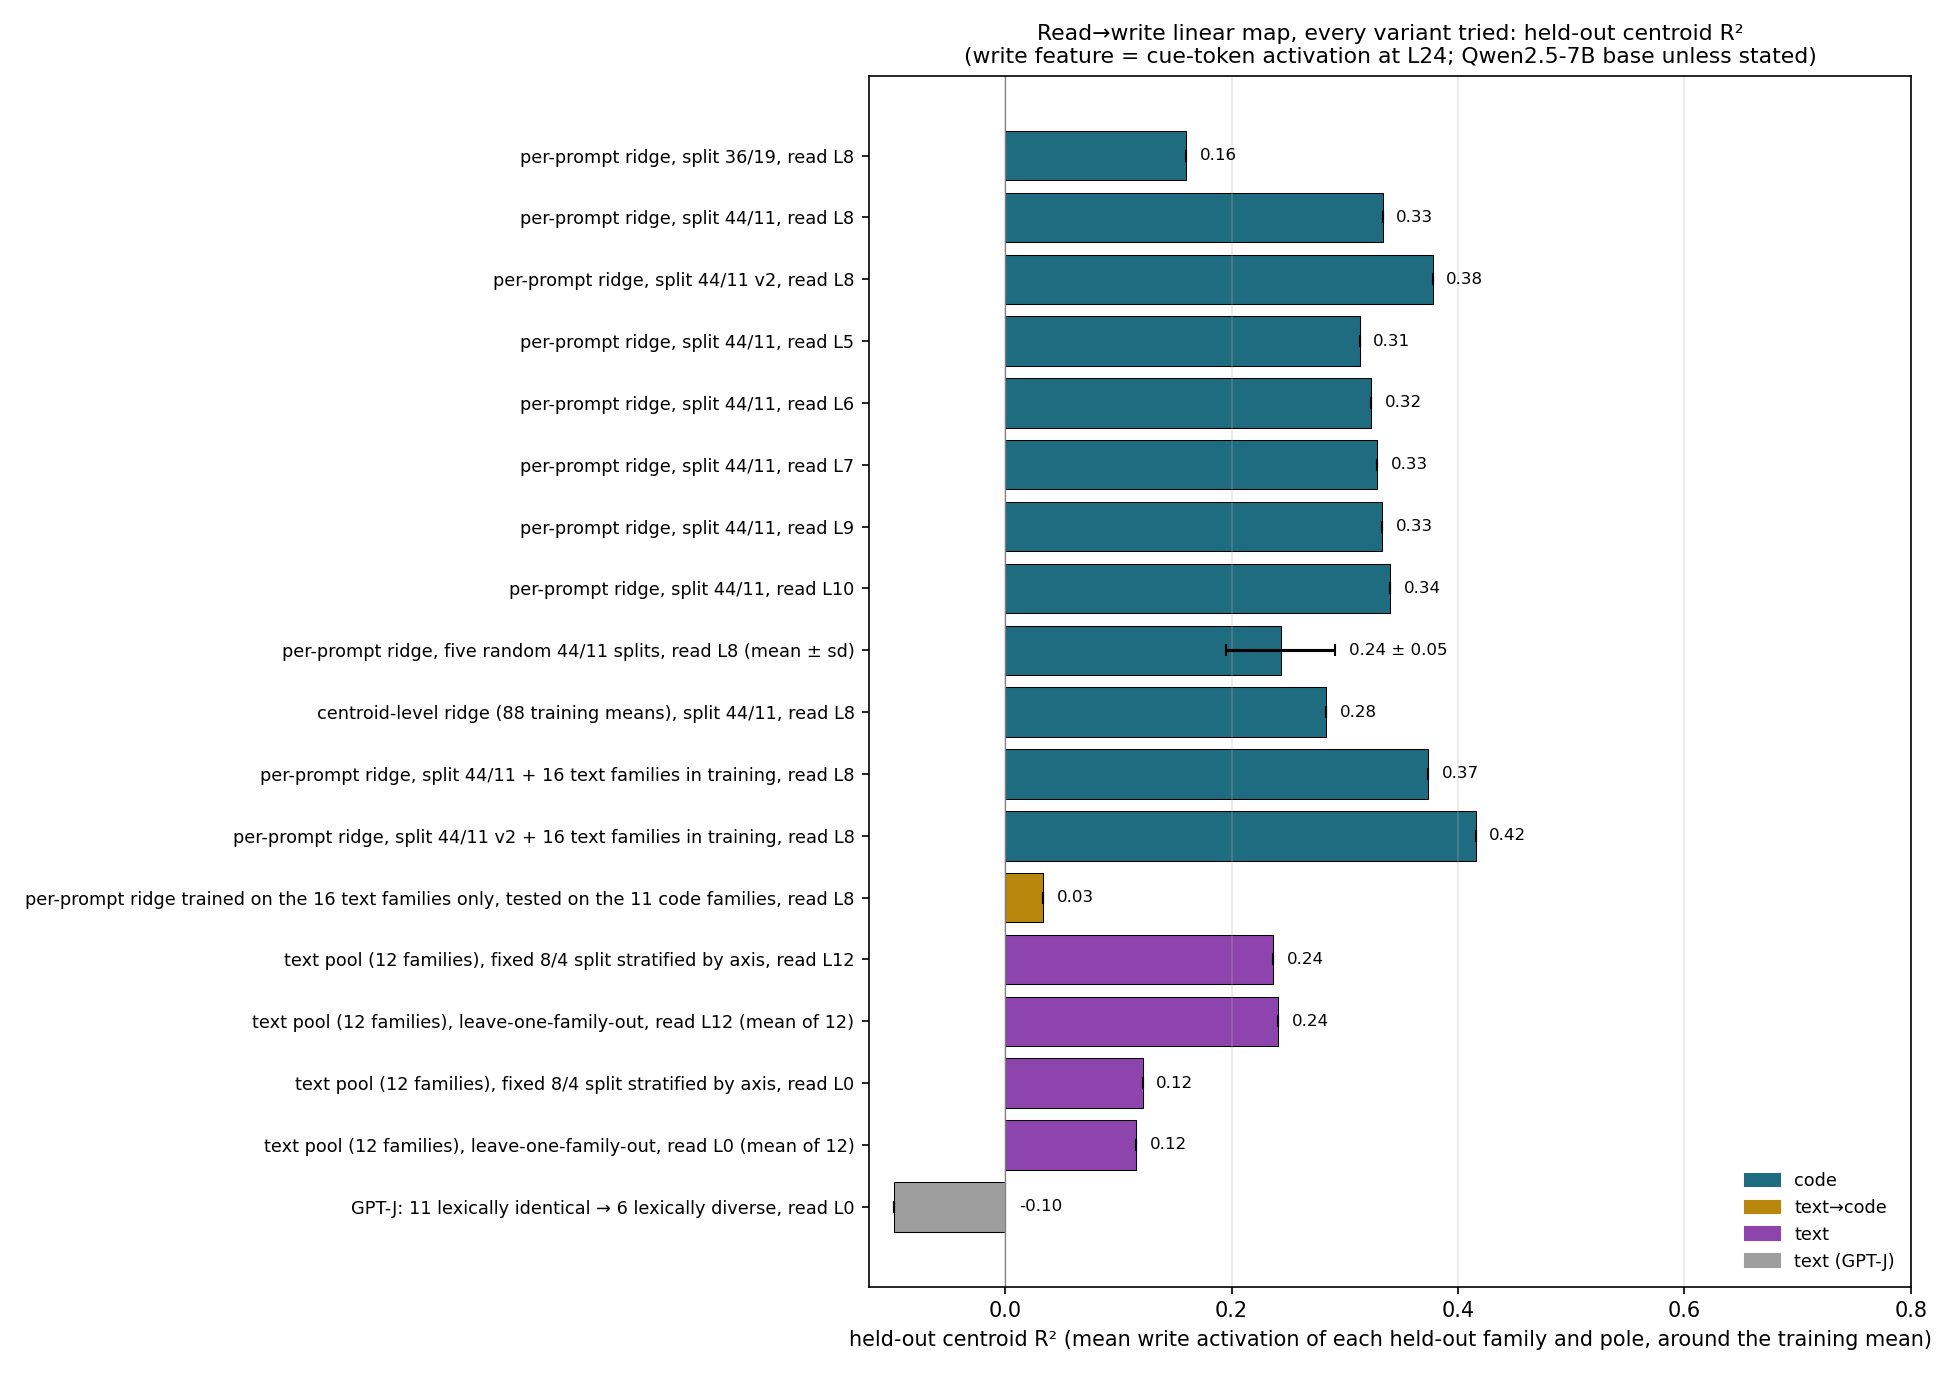
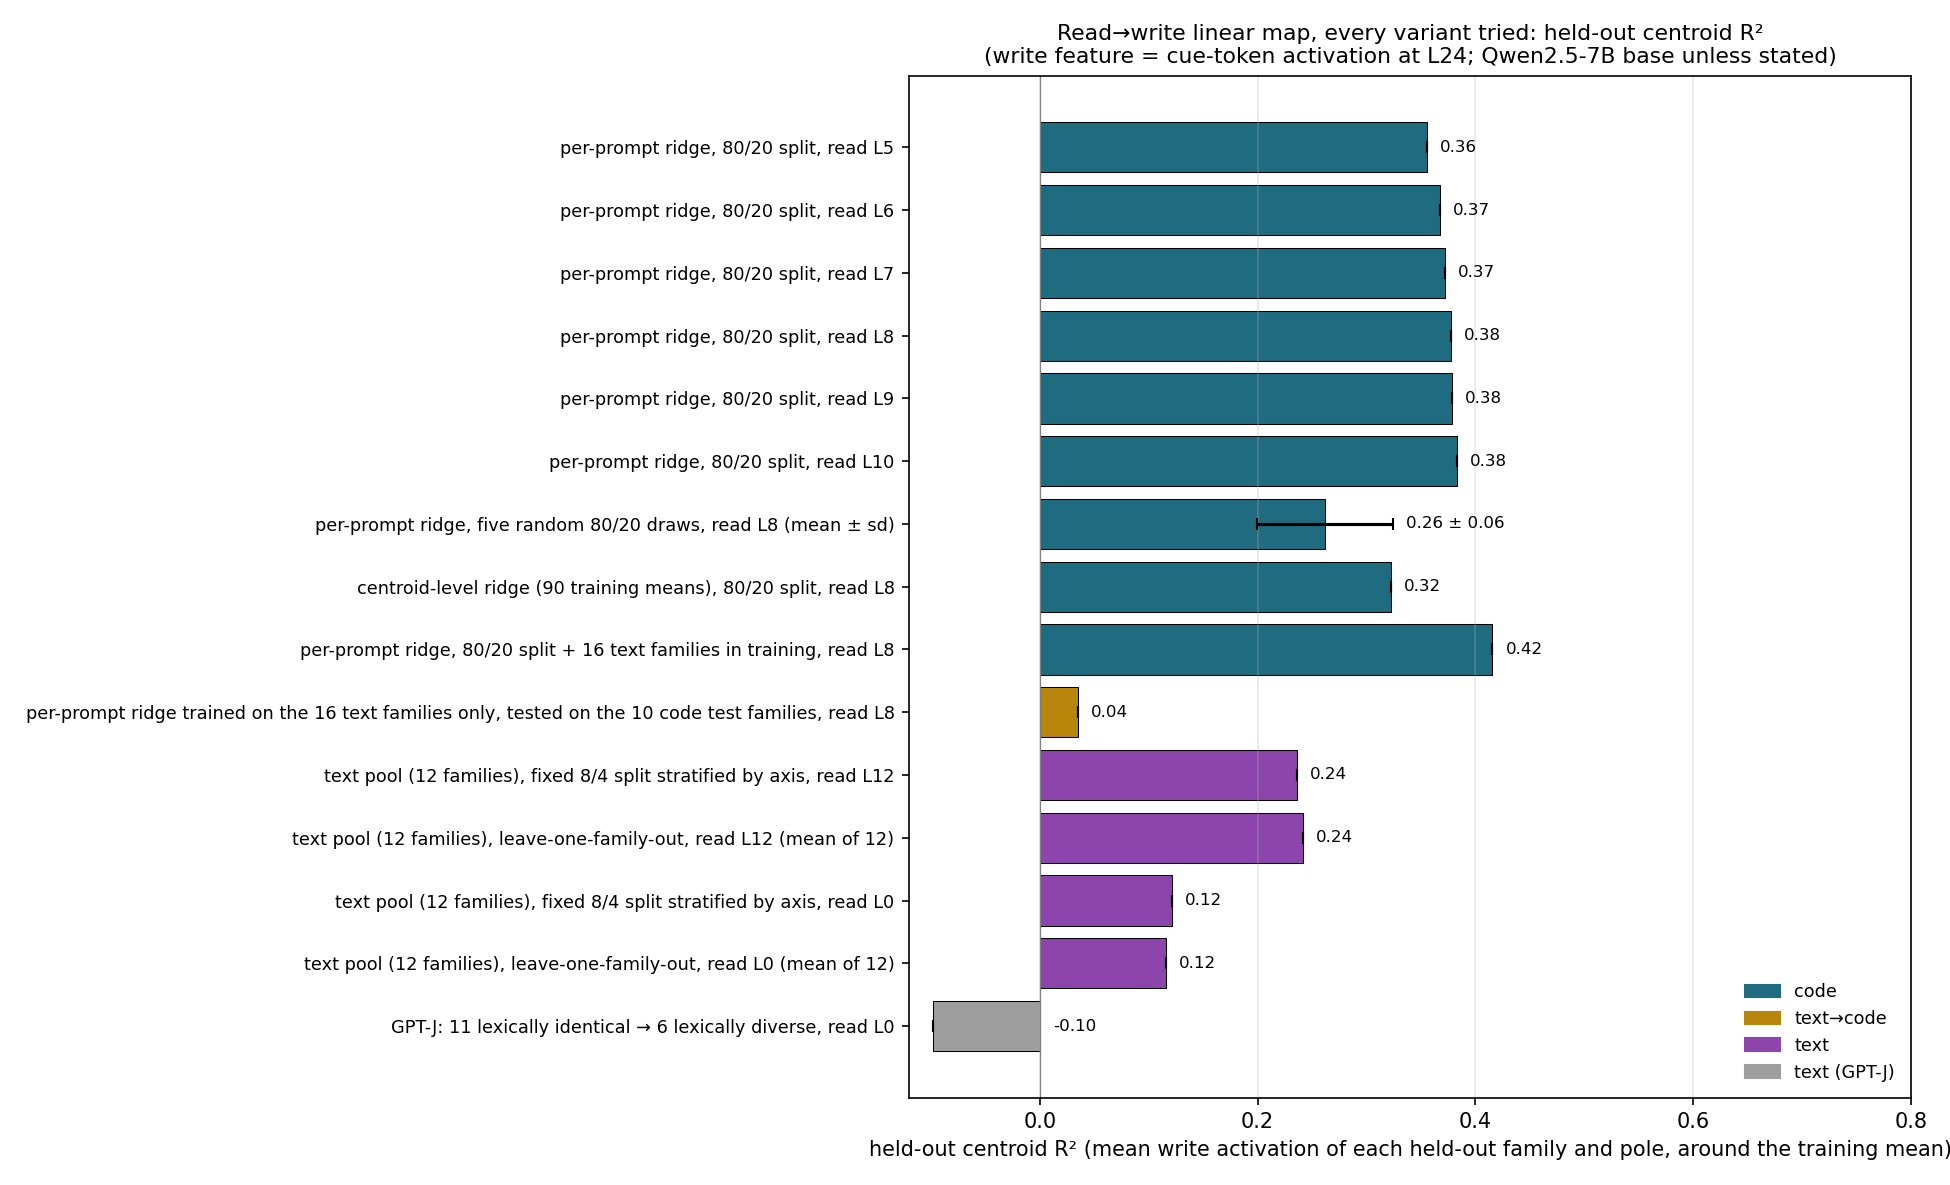
write-up variants figure: single 80/20 split (rust_question in train) for every code variant; 36/19 and old 44/11 rows dropped

Changed region(s): [[0.0308, 0.0937, 1.0, 0.9992], [0.2462, 0.0937, 0.4615, 0.3435], [0.4923, 0.0, 0.9538, 0.0624]]

diff --git a/src/sandbox/style_translation/read_write_variants.py b/src/sandbox/style_translation/read_write_variants.py
@@ -48,46 +48,40 @@ def main():
     if "--plot_only" in sys.argv:
         plot(pd.read_csv(OUT / "read_write_variants.csv"), OUT); print("->", OUT / "read_write_variants.png"); return
     pool = json.load(open(R / "code_pool_full.json"))["pool"]; text = json.load(open(R / "pool.json"))["pool"]; cat = code_strata(pool)
-    splits = {"36/19": json.load(open(RW / "fixed_split.json")), "44/11": json.load(open(RW / "fixed_split_80_20.json")), "44/11 v2": json.load(open(RW / "fixed_split_80_20_v2.json"))}
+    sp = json.load(open(RW / "fixed_split_80_20_v2.json")); train, test = sp["train"], sp["test"]   # the 80/20 split (45 train / 10 test; rust_question, the only Rust family, in train)
     rows = []
     data = {lr: load(pool, lr, 24) for lr in (5, 6, 7, 8, 9, 10)}
     X8, Y8, F8, P8 = data[8]
-    # 1. splits at L8
-    for name, sp in splits.items():
-        o = cent_r2(X8, Y8, F8, P8, sp["train"], sp["test"])
-        rows.append(dict(variant=f"per-prompt ridge, split {name}, read L8", pool="code", n_train=len(sp["train"]), n_test=len(sp["test"]), r2=o["centroid_r2"], inspan=o["inspan"]))
-    # 2. read-layer sweep on 44/11
-    sp = splits["44/11"]
-    for lr in (5, 6, 7, 9, 10):
-        X, Y, F, P = data[lr]; o = cent_r2(X, Y, F, P, sp["train"], sp["test"])
-        rows.append(dict(variant=f"per-prompt ridge, split 44/11, read L{lr}", pool="code", n_train=44, n_test=11, r2=o["centroid_r2"], inspan=o["inspan"]))
-    # 3. five random splits at L8
+    # 1. read-layer sweep on the 80/20 split
+    for lr in (5, 6, 7, 8, 9, 10):
+        X, Y, F, P = data[lr]; o = cent_r2(X, Y, F, P, train, test)
+        rows.append(dict(variant=f"per-prompt ridge, 80/20 split, read L{lr}", pool="code", n_train=len(train), n_test=len(test), r2=o["centroid_r2"], inspan=o["inspan"]))
+    # 2. five random 80/20 draws at L8 (10 test families, category-stratified, seeds 1-5)
     rs = []
     for seed in (1, 2, 3, 4, 5):
-        rng = np.random.default_rng(seed); test = []
+        rng = np.random.default_rng(seed); te_ = []
         for c in sorted(set(cat.values())):
-            fs = sorted(f for f in pool if cat[f] == c); k = max(1, round(len(fs) * 11 / len(pool))); test += [str(x) for x in rng.choice(fs, size=min(k, len(fs)), replace=False)]
-        test = sorted(test); train = [f for f in pool if f not in test]
-        rs.append(cent_r2(X8, Y8, F8, P8, train, test)["centroid_r2"])
-    rows.append(dict(variant="per-prompt ridge, five random 44/11 splits, read L8 (mean ± sd)", pool="code", n_train=44, n_test=11, r2=float(np.mean(rs)), r2_sd=float(np.std(rs, ddof=1)), inspan=np.nan))
-    # 4. centroid map on 44/11 at L8
-    lab = [(f, s) for f in pool for s in ("nat", "alt")]
-    Rc = np.array([X8[(F8 == f) & (P8 == s)].mean(0) for f, s in lab]); Wc = np.array([Y8[(F8 == f) & (P8 == s)].mean(0) for f, s in lab])
-    mtr = np.array([f in sp["train"] for f, _ in lab]); M = DualRidge(Rc[mtr], Wc[mtr]).fit(0.316); pc = M.predict(Rc[~mtr])
-    rows.append(dict(variant="centroid-level ridge (88 training means), split 44/11, read L8", pool="code", n_train=44, n_test=11, r2=r2(pc, Wc[~mtr], M.ym), inspan=np.nan))
-    # 5. augmented with text families
+            fs = sorted(f for f in pool if cat[f] == c); k = max(1, round(len(fs) * len(test) / len(pool))); te_ += [str(x) for x in rng.choice(fs, size=min(k, len(fs)), replace=False)]
+        te_ = sorted(te_); tr_ = [f for f in pool if f not in te_]
+        rs.append(cent_r2(X8, Y8, F8, P8, tr_, te_)["centroid_r2"])
+    rows.append(dict(variant="per-prompt ridge, five random 80/20 draws, read L8 (mean ± sd)", pool="code", n_train=len(pool) - len(test), n_test=len(test), r2=float(np.mean(rs)), r2_sd=float(np.std(rs, ddof=1)), inspan=np.nan))
+    # 3. centroid-level map on the 80/20 split at L8
+    lab = [(f, s_) for f in pool for s_ in ("nat", "alt")]
+    Rc = np.array([X8[(F8 == f) & (P8 == s_)].mean(0) for f, s_ in lab]); Wc = np.array([Y8[(F8 == f) & (P8 == s_)].mean(0) for f, s_ in lab])
+    mtr = np.array([f in train for f, _ in lab]); M = DualRidge(Rc[mtr], Wc[mtr]).fit(0.316); pc = M.predict(Rc[~mtr])
+    rows.append(dict(variant=f"centroid-level ridge ({int(mtr.sum())} training means), 80/20 split, read L8", pool="code", n_train=len(train), n_test=len(test), r2=r2(pc, Wc[~mtr], M.ym), inspan=np.nan))
+    # 4. training augmented with the 16 text families
     Xt, Yt, Ft, Pt = load(text, 8, 24)
-    for name, key in (("44/11", "44/11"), ("44/11 v2", "44/11 v2")):
-        sp_ = splits[key]; te = np.isin(F8, sp_["test"]); trm = np.isin(F8, sp_["train"])
-        Xa, Ya, Fa, Pa = np.vstack([X8[trm], Xt]), np.vstack([Y8[trm], Yt]), np.concatenate([F8[trm], Ft]), np.concatenate([P8[trm], Pt])
-        Rg = make_ridge(Xa, Ya).fit(10.0); pred = Rg.predict(X8[te])
-        cents = np.array([Ya[(Fa == f) & (Pa == s)].mean(0) for f in sorted(set(Fa)) for s in ("nat", "alt")])
-        o = centroid_scores(pred, Y8[te], F8[te], P8[te], sp_["test"], Rg.ym, cents)
-        rows.append(dict(variant=f"per-prompt ridge, split {name} + 16 text families in training, read L8", pool="code", n_train=len(sp_["train"]) + 16, n_test=len(sp_["test"]), r2=o["centroid_r2"], inspan=o["inspan"]))
-    Rg = make_ridge(Xt, Yt).fit(10.0); te = np.isin(F8, sp["test"]); pred = Rg.predict(X8[te])
-    cents = np.array([Yt[(Ft == f) & (Pt == s)].mean(0) for f in text for s in ("nat", "alt")])
-    o = centroid_scores(pred, Y8[te], F8[te], P8[te], sp["test"], Rg.ym, cents)
-    rows.append(dict(variant="per-prompt ridge trained on the 16 text families only, tested on the 11 code families, read L8", pool="text→code", n_train=16, n_test=11, r2=o["centroid_r2"], inspan=o["inspan"]))
+    te = np.isin(F8, test); trm = np.isin(F8, train)
+    Xa, Ya, Fa, Pa = np.vstack([X8[trm], Xt]), np.vstack([Y8[trm], Yt]), np.concatenate([F8[trm], Ft]), np.concatenate([P8[trm], Pt])
+    Rg = make_ridge(Xa, Ya).fit(10.0); pred = Rg.predict(X8[te])
+    cents = np.array([Ya[(Fa == f) & (Pa == s_)].mean(0) for f in sorted(set(Fa)) for s_ in ("nat", "alt")])
+    o = centroid_scores(pred, Y8[te], F8[te], P8[te], test, Rg.ym, cents)
+    rows.append(dict(variant="per-prompt ridge, 80/20 split + 16 text families in training, read L8", pool="code", n_train=len(train) + 16, n_test=len(test), r2=o["centroid_r2"], inspan=o["inspan"]))
+    Rg = make_ridge(Xt, Yt).fit(10.0); pred = Rg.predict(X8[te])
+    cents = np.array([Yt[(Ft == f) & (Pt == s_)].mean(0) for f in text for s_ in ("nat", "alt")])
+    o = centroid_scores(pred, Y8[te], F8[te], P8[te], test, Rg.ym, cents)
+    rows.append(dict(variant="per-prompt ridge trained on the 16 text families only, tested on the 10 code test families, read L8", pool="text→code", n_train=16, n_test=len(test), r2=o["centroid_r2"], inspan=o["inspan"]))
     # 6. stored text-pool and GPT-J numbers
     for f, lr in (("pool_summary_L12_L24.csv", 12), ("pool_summary_L0_L24.csv", 0)):
         d = pd.read_csv(R / "read_write_map" / f); fx = d[d.protocol == "fixed"].iloc[0]; lo = d[d.protocol == "lofo"]
